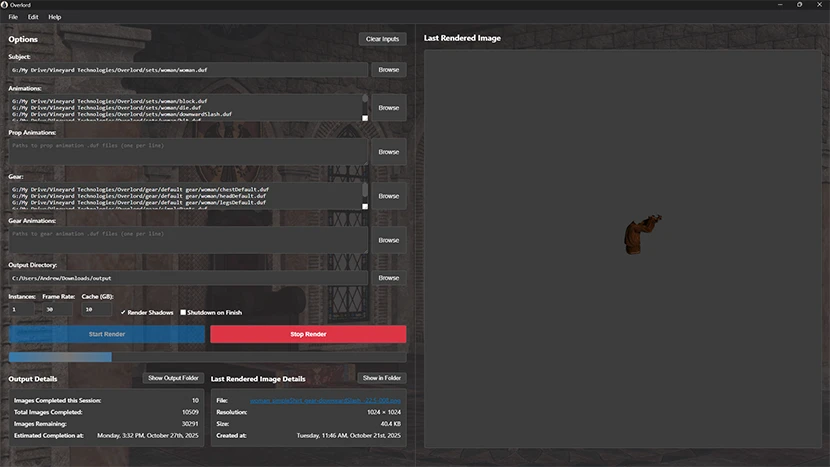
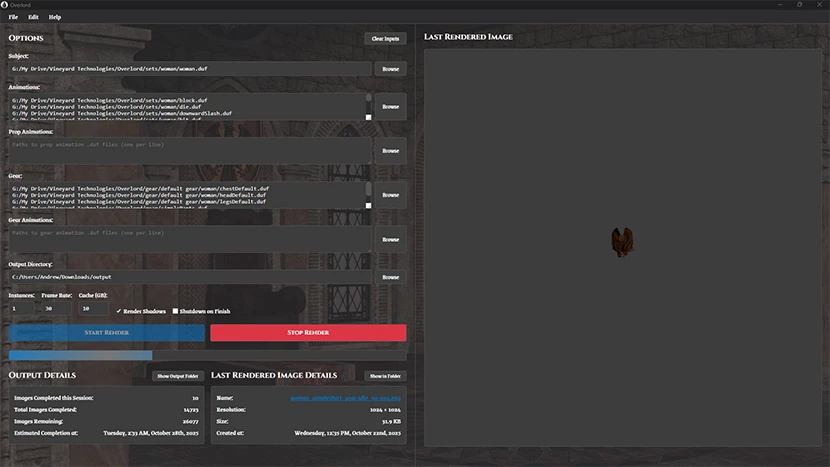
Refactor Iray Server stop logic and update button styles
Replaced PowerShell script-based Iray Server shutdown with native Node.js process management and directory cleanup. Updated button styles in index.html and styles.css to use a new .btn-small class for consistent appearance and improved layout in input rows. Updated screenshot image.

diff --git a/overlord.js b/overlord.js
@@ -425,44 +425,49 @@ async function killProcessesByName(processNames) {
 
 async function stopIrayServer() {
   try {
-    const scriptPath = app.isPackaged
-      ? path.join(process.resourcesPath, 'app', 'scripts', 'stopIrayServer.ps1')
-      : path.join(__dirname, 'scripts', 'stopIrayServer.ps1');
+    console.log('Stopping Iray Server using Node.js native process management');
     
-    if (!fs.existsSync(scriptPath)) {
-      console.error(`stopIrayServer.ps1 not found at: ${normalizePathForLogging(scriptPath)}`);
-      return 0;
+    // Kill Iray Server processes
+    const irayProcessNames = ['iray_server.exe', 'iray_server_worker.exe'];
+    let killedCount = 0;
+    
+    for (const processName of irayProcessNames) {
+      try {
+        await execPromise(`taskkill /F /IM ${processName}`);
+        console.log(`Killed Iray Server process: ${processName}`);
+        killedCount++;
+      } catch (error) {
+        // Process might not be running (taskkill returns error if process not found)
+        console.log(`No ${processName} process found`);
+      }
     }
     
-    console.log('Stopping Iray Server using stopIrayServer.ps1');
+    // Clean up Iray Server directory
+    const irayServerDir = path.join(getLocalAppDataPath(), 'IrayServer');
     
-    return new Promise((resolve) => {
-      const ps = spawn('powershell.exe', [
-        '-ExecutionPolicy', 'Bypass',
-        '-File', scriptPath
-      ]);
+    if (fs.existsSync(irayServerDir)) {
+      console.log(`Cleaning Iray Server directory: ${normalizePathForLogging(irayServerDir)}`);
       
-      ps.on('close', (code) => {
-        if (code === 0) {
-          console.log('Iray Server stopped successfully via PowerShell script');
-          resolve(1);
-        } else {
-          console.warn(`stopIrayServer.ps1 returned non-zero exit code: ${code}`);
-          resolve(0);
-        }
-      });
-      
-      ps.on('error', (error) => {
-        console.error('Failed to run stopIrayServer.ps1:', error);
-        resolve(0);
-      });
-      
-      setTimeout(() => {
-        ps.kill();
-        console.error('stopIrayServer.ps1 timed out after 30 seconds');
-        resolve(0);
-      }, 30000);
-    });
+      try {
+        // Use Node.js built-in recursive removal with retry logic
+        fs.rmSync(irayServerDir, { 
+          recursive: true, 
+          force: true, 
+          maxRetries: 10, 
+          retryDelay: 1000 
+        });
+        console.log('Iray Server directory cleaned successfully');
+      } catch (error) {
+        console.warn(`Failed to clean Iray Server directory: ${error.message}`);
+        // Non-fatal - continue anyway
+      }
+    } else {
+      console.log('Iray Server directory does not exist, nothing to clean');
+    }
+    
+    console.log(`Iray Server stopped successfully (${killedCount} processes terminated)`);
+    return killedCount > 0 ? 1 : 0;
+    
   } catch (error) {
     console.error('Error stopping Iray Server:', error);
     return 0;

diff --git a/index.html b/index.html
@@ -47,7 +47,7 @@
     <div class="left-panel">
       <div style="display: flex; justify-content: space-between; align-items: center; margin-bottom: 16px;">
         <h2 style="margin: 0;">Options</h2>
-        <button onclick="clearAllFields()" style="padding: 6px 16px; font-size: 14px;">Clear Inputs</button>
+        <button onclick="clearAllFields()" class="btn-small">Clear Inputs</button>
       </div>
       
       <div class="form-group">
@@ -133,10 +133,10 @@
       </div>
       
       <div style="display: flex; gap: 16px; margin-top: 24px;">
-        <div style="flex: 1;">
+          <div style="flex: 1;">
           <div style="display: flex; justify-content: space-between; align-items: center; margin-bottom: 12px;">
             <h3 style="margin: 0;">Output Details</h3>
-            <button onclick="showOutputFolder()" style="padding: 4px 12px; font-size: 13px;">Show Output Folder</button>
+            <button onclick="showOutputFolder()" class="btn-small">Show Output Folder</button>
           </div>
           <div class="info-box">
             <div class="info-row">
@@ -161,7 +161,7 @@
         <div style="flex: 1;">
           <div style="display: flex; justify-content: space-between; align-items: center; margin-bottom: 12px;">
             <h3 style="margin: 0;">Last Rendered Image Details</h3>
-            <button onclick="showImageInFolder()" style="padding: 4px 12px; font-size: 13px;">Show in Folder</button>
+            <button onclick="showImageInFolder()" class="btn-small">Show in Folder</button>
           </div>
           <div class="info-box">
             <div class="info-row">

diff --git a/styles.css b/styles.css
@@ -203,10 +203,17 @@ textarea {
 .input-row {
   display: flex;
   gap: 8px;
+  align-items: center;
 }
 
 .input-row input {
   flex: 1;
+}
+
+.input-row button {
+  flex-shrink: 0;
+  height: 33px;
+  min-width: 80px;
 }
 
 /* Buttons */
@@ -217,7 +224,7 @@ button {
   border: 1px solid var(--border);
   border-radius: 4px;
   cursor: pointer;
-  font-size: 14px;
+  font-size: 16px;
   font-family: 'Grenze', sans-serif;
   line-height: 1;
 }
@@ -252,6 +259,13 @@ button:disabled {
   padding: 12px;
   font-weight: 600;
   font-family: 'Cinzel', serif;
+}
+
+.btn-small {
+  height: 33px;
+  padding: 4px 12px;
+  font-size: 16px;
+  line-height: 1;
 }
 
 /* Progress */
